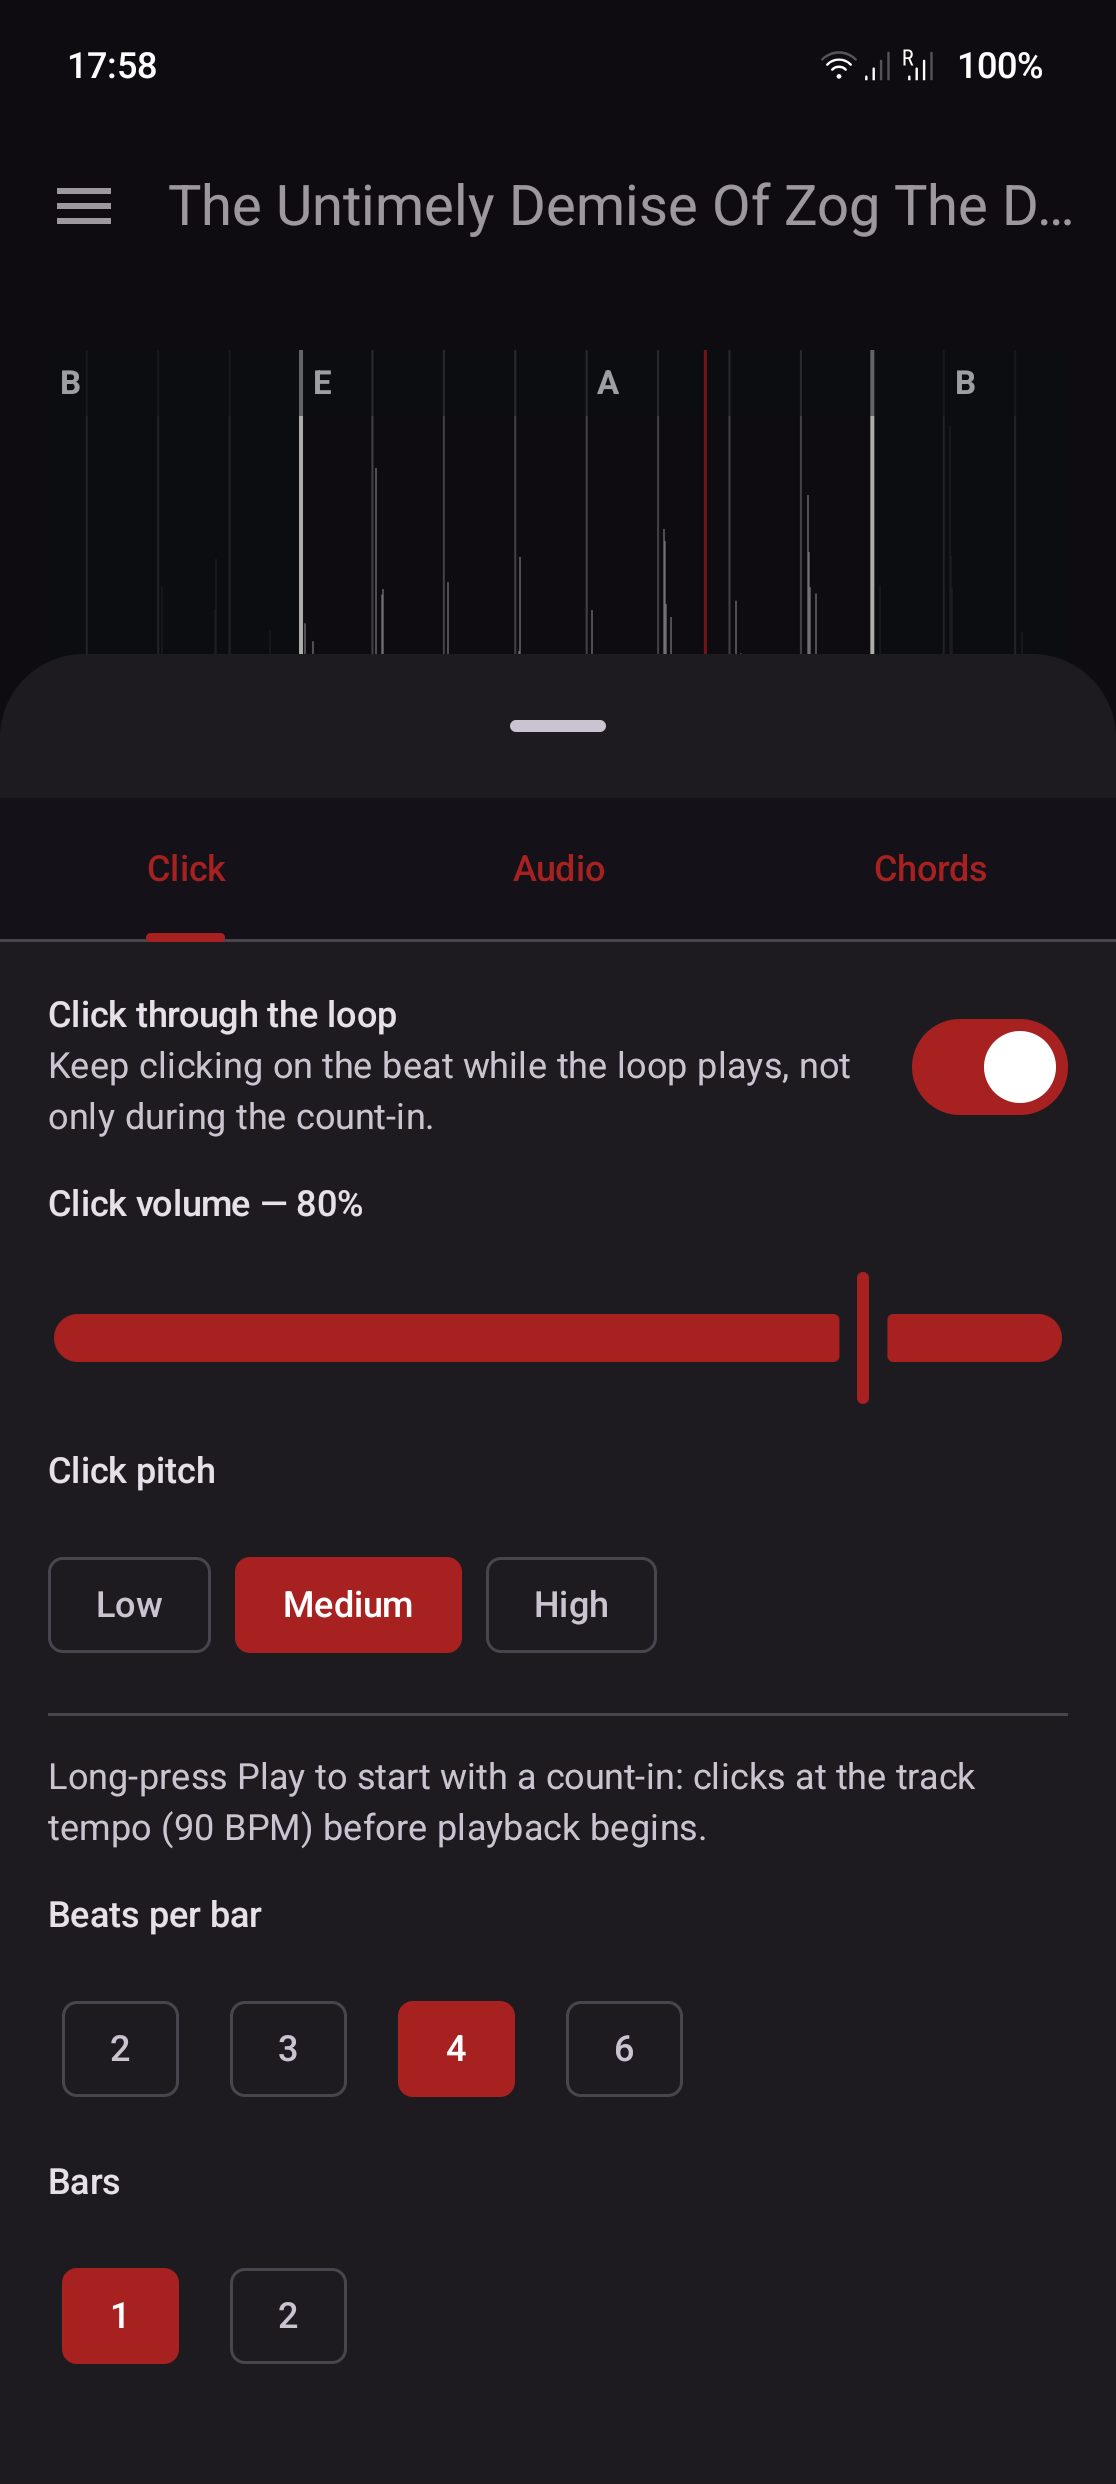
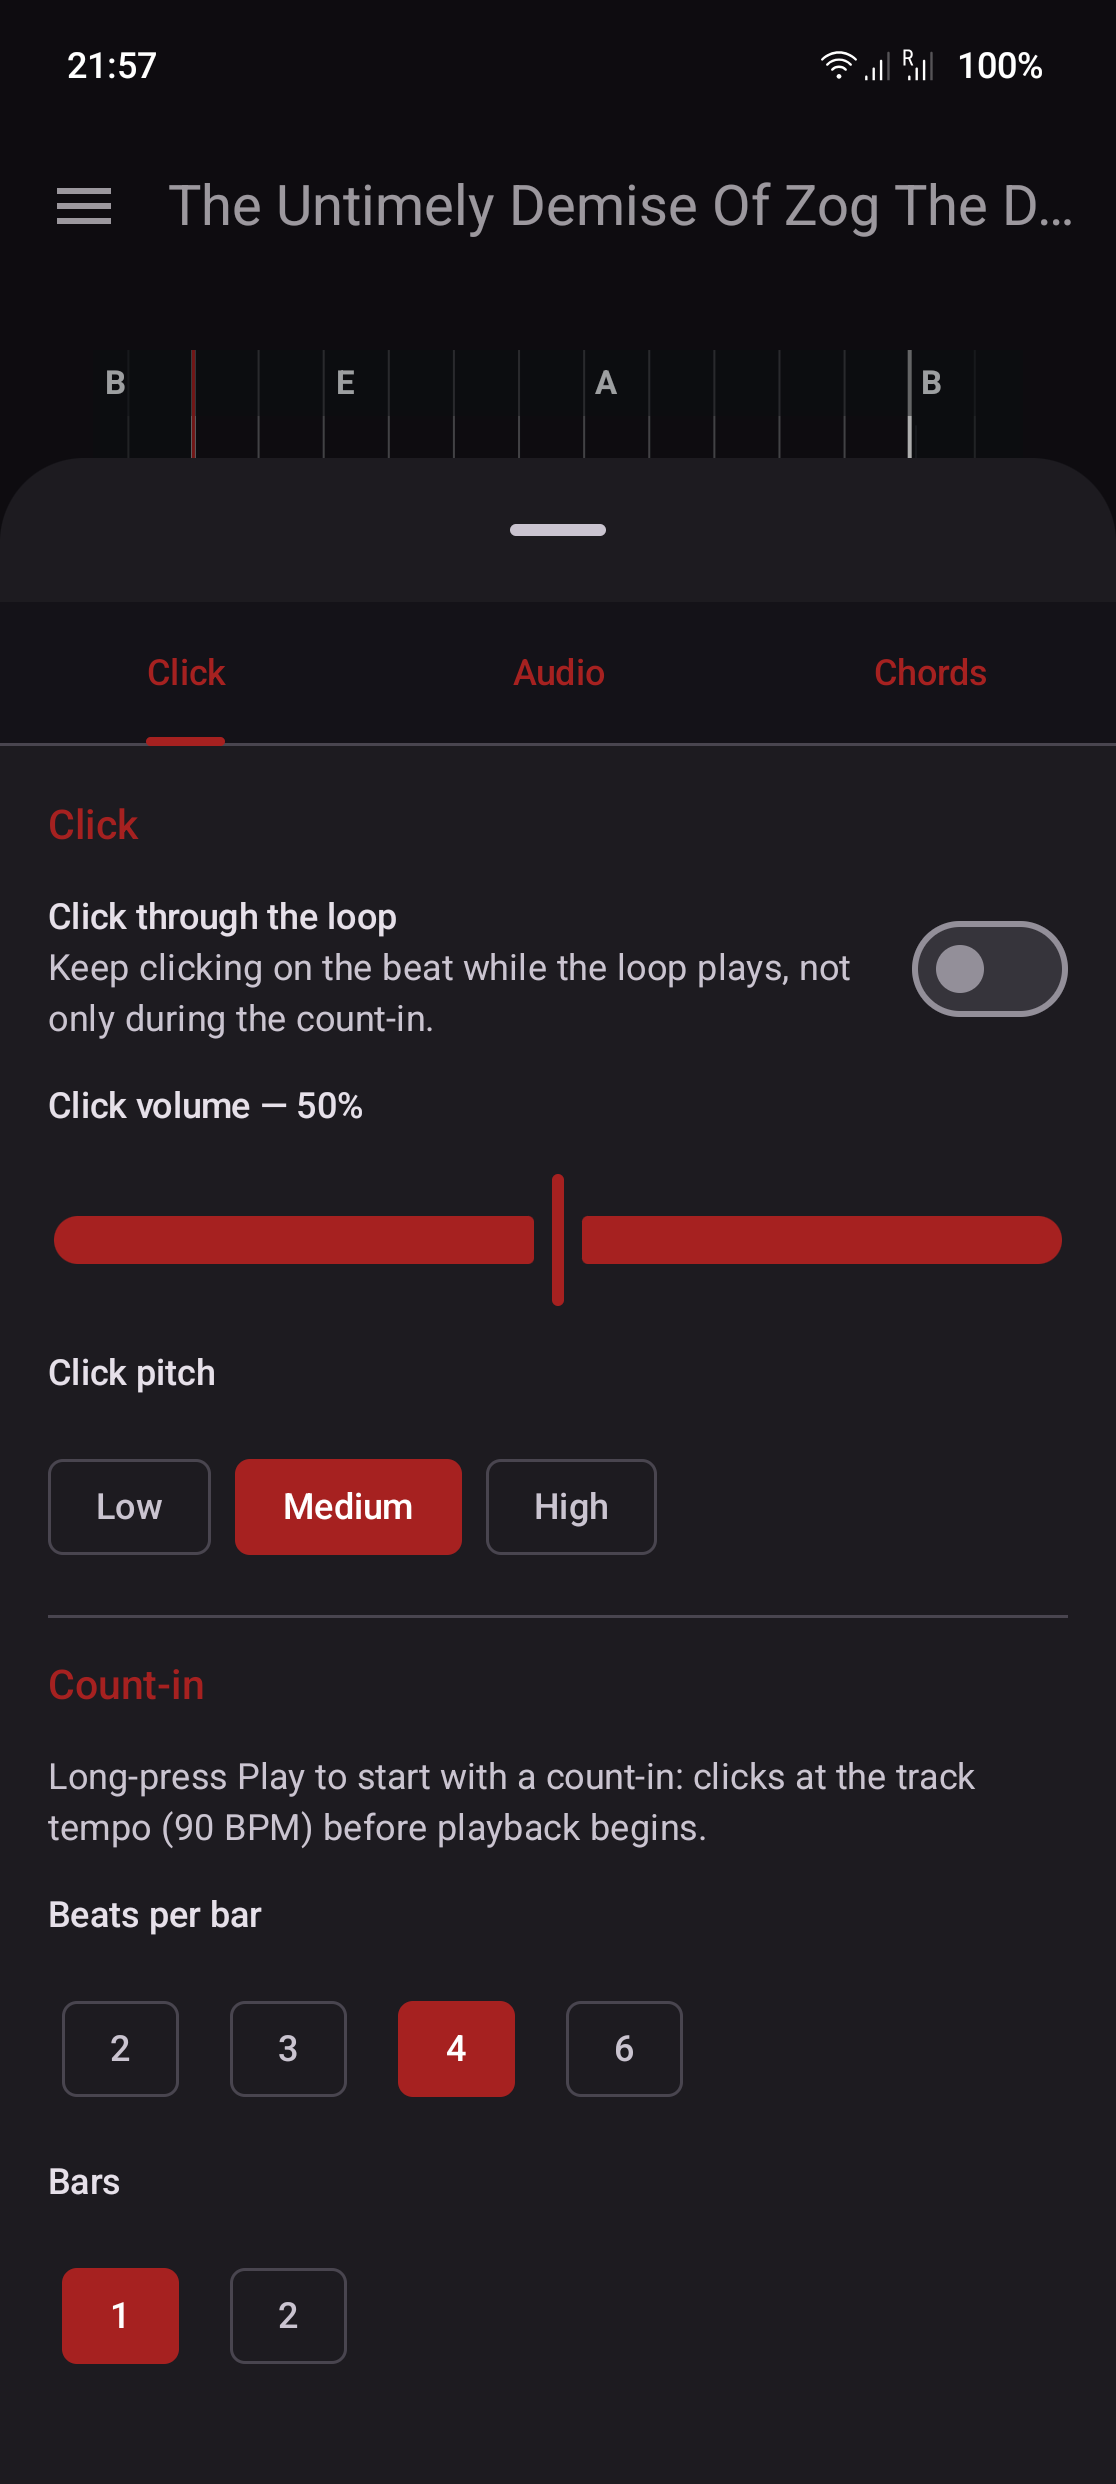
Prepare 0.11 release
Version 0.11 (versionCode 12): the Chord roots detection mode, the
Click tab split under Click and Count-in headings, and the note that
Bass notes needs an audible bass.

Adds the F-Droid changelog for code 12, rewrites both What's New files
for this release, and re-shoots the three store screenshots the release
made stale — the Chords tab (Detect now offers three modes), the Click
tab (two headings), and the Audio tab (whose tab bar still read
"Count-in", a label dropped back in 0.10).

Claude-Session: https://claude.ai/code/session_01JXrjpJjYfbZPmEJMBxnK1V

diff --git a/CHANGELOG.md b/CHANGELOG.md
@@ -4,6 +4,15 @@ All notable changes to this project are documented here. The format is based on 
 
 ## [Unreleased]
 
+## [0.11] - 2026-08-27
+
+### Added
+- The chord lane can name chord roots: it detects the harmony as usual, then names only the root of each chord, one note per chord. Over a C chord with an E underneath it says C, where Bass notes says E. It reads the whole mix rather than the bottom of it, so unlike Bass notes it does not need an audible bass line to follow. Options → Chords, then Re-detect to apply.
+
+### Changed
+- The Click tab in Options is split under two headings, Click and Count-in, so it is clear at a glance which settings apply to the count-in alone and which apply to the click throughout the loop.
+- Bass notes now says in the options and in the help that it needs a track with an audible bass, which is the condition under which it gives useful names at all.
+
 ## [0.10] - 2026-08-09
 
 ### Added
@@ -136,7 +145,8 @@ Maintenance release: identical features to 0.3, rebuilt with clean release hygie
 - Multiple named saved loops per track; custom, renameable track titles.
 - Follow-playhead auto-scroll, keep-screen-on, and an in-app quick-help sheet.
 
-[Unreleased]: https://github.com/mkay/RubberRing/compare/v0.10...HEAD
+[Unreleased]: https://github.com/mkay/RubberRing/compare/v0.11...HEAD
+[0.11]: https://github.com/mkay/RubberRing/compare/v0.10...v0.11
 [0.10]: https://github.com/mkay/RubberRing/compare/v0.9...v0.10
 [0.9]: https://github.com/mkay/RubberRing/compare/v0.8...v0.9
 [0.8]: https://github.com/mkay/RubberRing/compare/v0.7.1...v0.8

diff --git a/app/src/main/res/raw-de/whatsnew.md b/app/src/main/res/raw-de/whatsnew.md
@@ -5,8 +5,8 @@ unverändert angezeigt; kurze Stichpunkte, etwa vier. Die Versionsnummer steht i
 gehört nicht hierher.
 -->
 
-• Der Klick läuft auf Wunsch durch die ganze Schleife weiter, nicht mehr nur beim Einzählen — mit eigenem Lautstärkeregler und drei Klanghöhen, unter Optionen → Klick.
+• Die Akkordspur kann Grundtöne benennen: die Harmonie auf einen Ton pro Akkord reduziert. Über einem C-Akkord mit E darunter steht C, wo „Basstöne“ E anzeigt. Unter Optionen → Akkorde, dann „Neu erkennen“.
 
-• Die Akkordspur kann statt Akkorden auch Basstöne benennen: den tiefsten Ton statt der Harmonie darüber. Unter Optionen → Akkorde.
+• Anders als „Basstöne“ werten Grundtöne den ganzen Mix aus und funktionieren daher auch bei Titeln ohne hörbare Basslinie.
 
-• Der Akkord an der Abspielposition lässt sich während der Wiedergabe in einer großen Kachel anzeigen — lesbar, auch aus einigem Abstand.
+• Der Klick-Reiter in den Optionen ist jetzt in zwei Abschnitte geteilt, Klick und Einzählen, damit klar ist, was wofür gilt.

diff --git a/app/src/main/res/raw/whatsnew.md b/app/src/main/res/raw/whatsnew.md
@@ -9,8 +9,8 @@ what the dialog holds without scrolling. Don't write the version number here; th
 from the build.
 -->
 
-• The click can now carry on through the loop, not only during the count-in — with its own volume slider and three pitches, under Options → Click.
+• The chord lane can name chord roots: the harmony reduced to one note per chord. Over a C chord with an E underneath it says C, where Bass notes says E. Options → Chords, then Re-detect.
 
-• The chord lane can name bass notes instead of chords: the lowest note rather than the harmony over it. Options → Chords.
+• Unlike Bass notes, chord roots read the whole mix, so they work on tracks without an audible bass line.
 
-• The chord under the playhead can be shown in a large tile while you play, readable from a fair distance.
+• The Click tab in Options now has two headings, Click and Count-in, so it is clear which settings apply to each.
